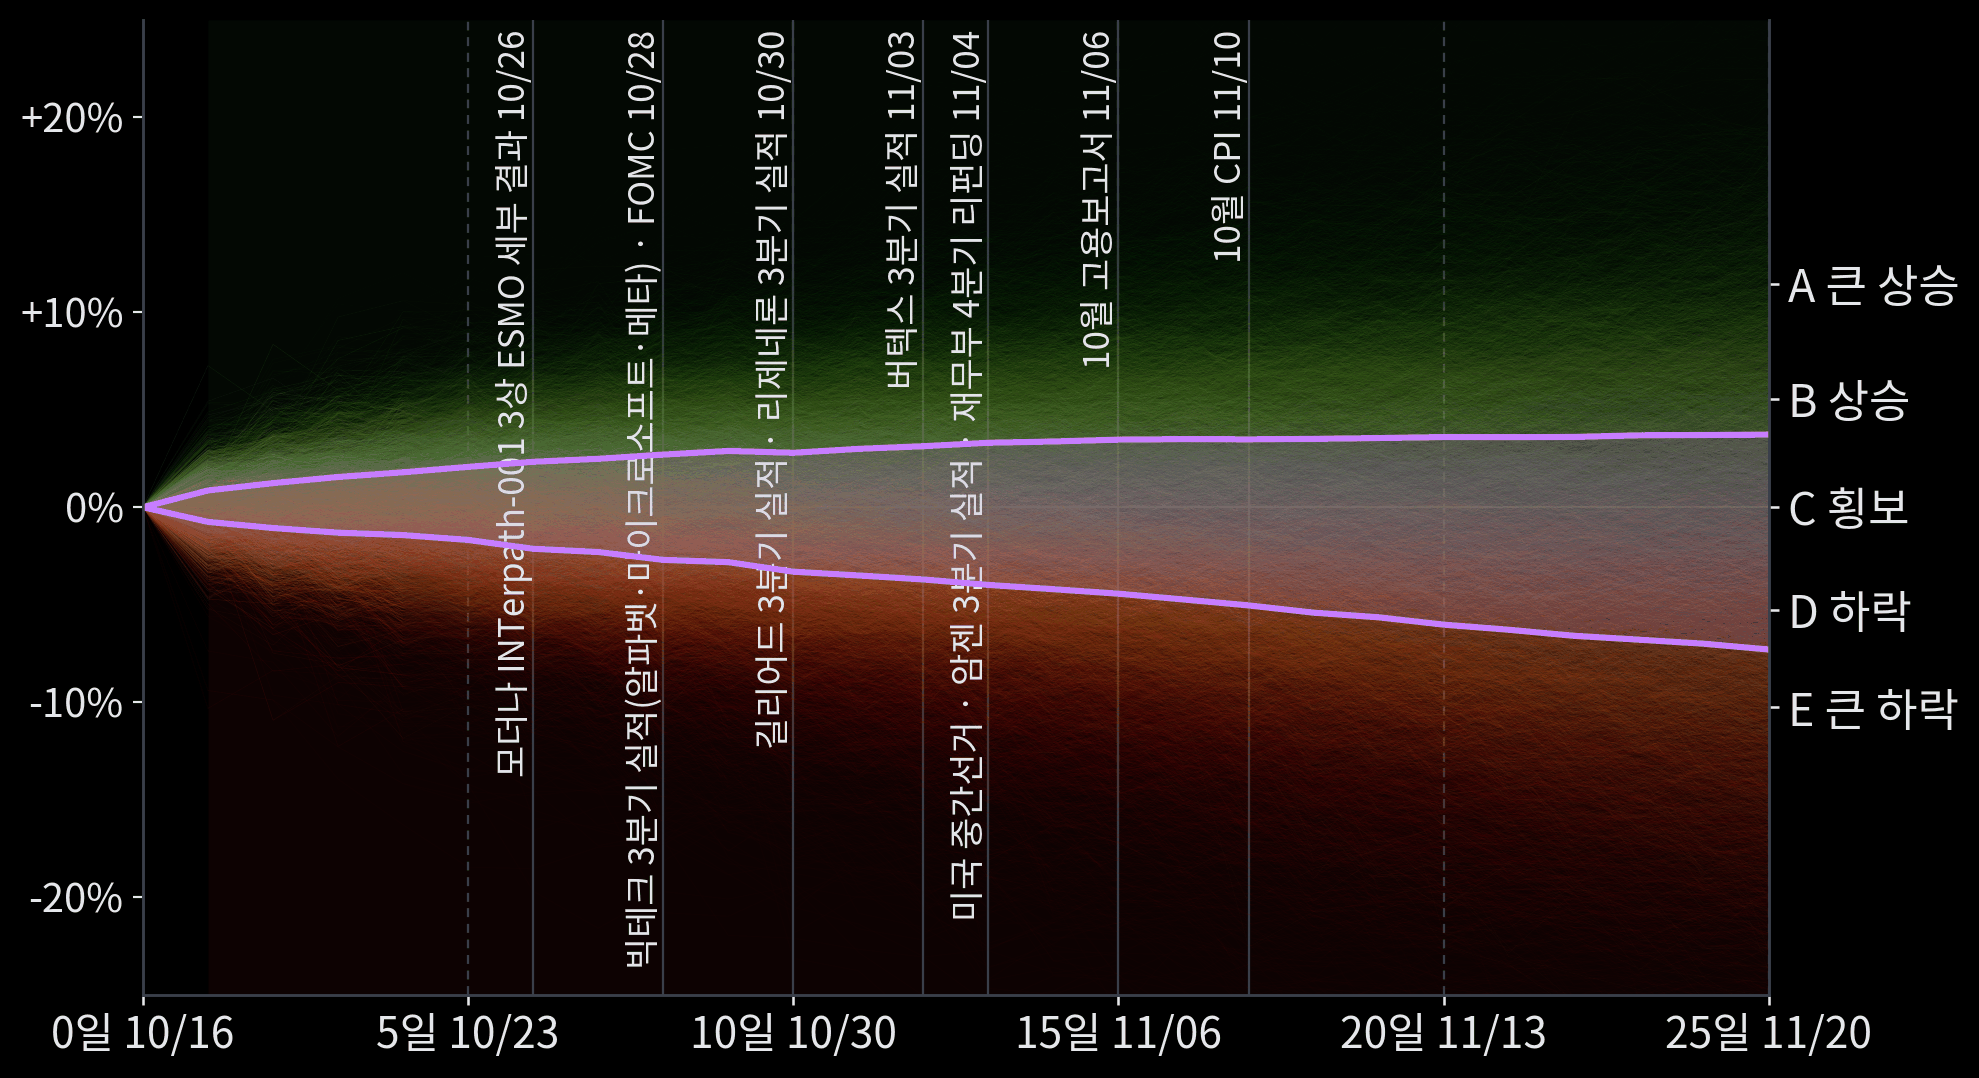
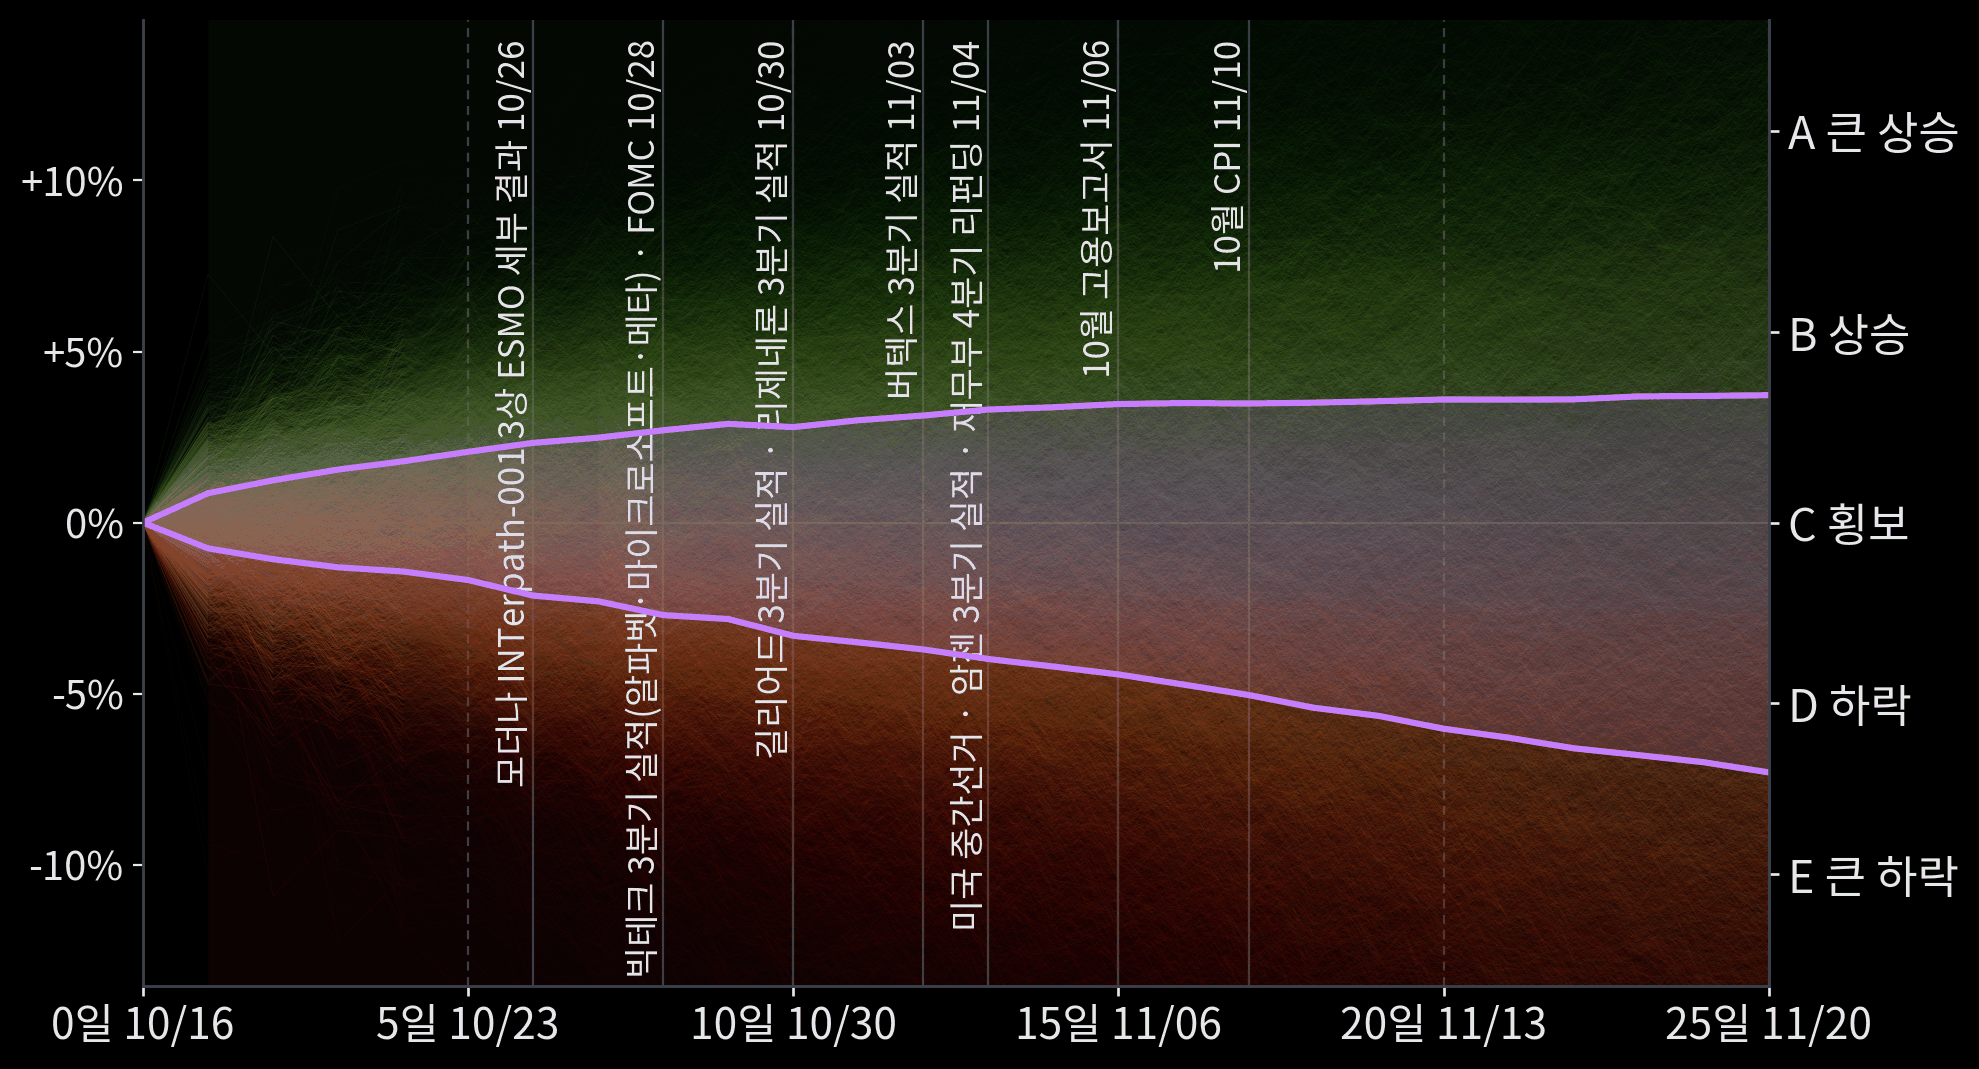
몬테카를로 그림 세로축 범위 축소

diff --git a/r/20261020-biotech/report.html b/r/20261020-biotech/report.html
@@ -165,7 +165,7 @@ id="5-지수가-더-크게-떨어지면-신규-상장-바이오-투자-수요가
 2018년 선거 때도 바이오 지수는 결과에 크게 반응하지 않았다.</li>
 </ul>
 <h2 id="다가오는-이벤트">다가오는 이벤트</h2>
-<p><img src="r/20261020-biotech/tree-biotech.png?v=abf5bb20ea" /></p>
+<p><img src="r/20261020-biotech/tree-biotech.png?v=d6cf41c4bf" /></p>
 <h3 id="2026-10-21수-메타-3분기-실적-중요도-보통">2026-10-21(수) 메타
 3분기 실적 <code>중요도 보통</code></h3>
 <table class="events">

diff --git a/r/20261019-biotech/report.html b/r/20261019-biotech/report.html
@@ -144,7 +144,7 @@ Renaissance Capital은 최근 부진한 공모 때문에 앞으로 강한 기업
 며칠에 그친다.</li>
 </ul>
 <h2 id="다가오는-이벤트">다가오는 이벤트</h2>
-<p><img src="r/20261019-biotech/tree-biotech.png?v=16aa84ea62" /></p>
+<p><img src="r/20261019-biotech/tree-biotech.png?v=68ea9b39b6" /></p>
 <h3
 id="2026-10-24토-모더나-흑색종-백신-3상-세부-결과esmo-중요도-보통">2026-10-24(토)
 모더나 흑색종 백신 3상 세부 결과(ESMO) <code>중요도 보통</code></h3>

diff --git a/r/20261021-nasdaq/report.html b/r/20261021-nasdaq/report.html
@@ -150,7 +150,7 @@ id="4-앤트로픽-상장-서류의-핵심-수치가-이미-보도돼-서류-공
 한꺼번에 자산을 판 사례는 없었다.</li>
 </ul>
 <h2 id="다가오는-이벤트">다가오는 이벤트</h2>
-<p><img src="r/20261021-nasdaq/tree-nasdaq.png?v=3ce7c26c8f" /></p>
+<p><img src="r/20261021-nasdaq/tree-nasdaq.png?v=ff3a6edbd3" /></p>
 <h3 id="2026-10-21수-메타-3분기-실적-중요도-높음">2026-10-21(수) 메타
 3분기 실적 <code>중요도 높음</code></h3>
 <table class="events">

diff --git a/r/20261020-nasdaq/report.html b/r/20261020-nasdaq/report.html
@@ -180,7 +180,7 @@ id="5-연준-동결은-시장이-이미-예상해-주가를-크게-움직이지-
 바꾸지 않을 가능성이 높다.</li>
 </ul>
 <h2 id="다가오는-이벤트">다가오는 이벤트</h2>
-<p><img src="r/20261020-nasdaq/tree-nasdaq.png?v=232f7aff72" /></p>
+<p><img src="r/20261020-nasdaq/tree-nasdaq.png?v=974de6dfe7" /></p>
 <h3 id="2026-10-21수-메타-3분기-실적-중요도-높음">2026-10-21(수) 메타
 3분기 실적 <code>중요도 높음</code></h3>
 <table class="events">

diff --git a/r/20261021-biotech/report.html b/r/20261021-biotech/report.html
@@ -126,7 +126,7 @@ Biktarvy뿐이다.</li>
 뒤이고, 의회가 두 번째 임시예산을 처리할 가능성이 높다.</li>
 </ul>
 <h2 id="다가오는-이벤트">다가오는 이벤트</h2>
-<p><img src="r/20261021-biotech/tree-biotech.png?v=33104b1c96" /></p>
+<p><img src="r/20261021-biotech/tree-biotech.png?v=5aec021a60" /></p>
 <h3 id="2026-10-21수-메타-3분기-실적-중요도-낮음">2026-10-21(수) 메타
 3분기 실적 <code>중요도 낮음</code></h3>
 <table class="events">
